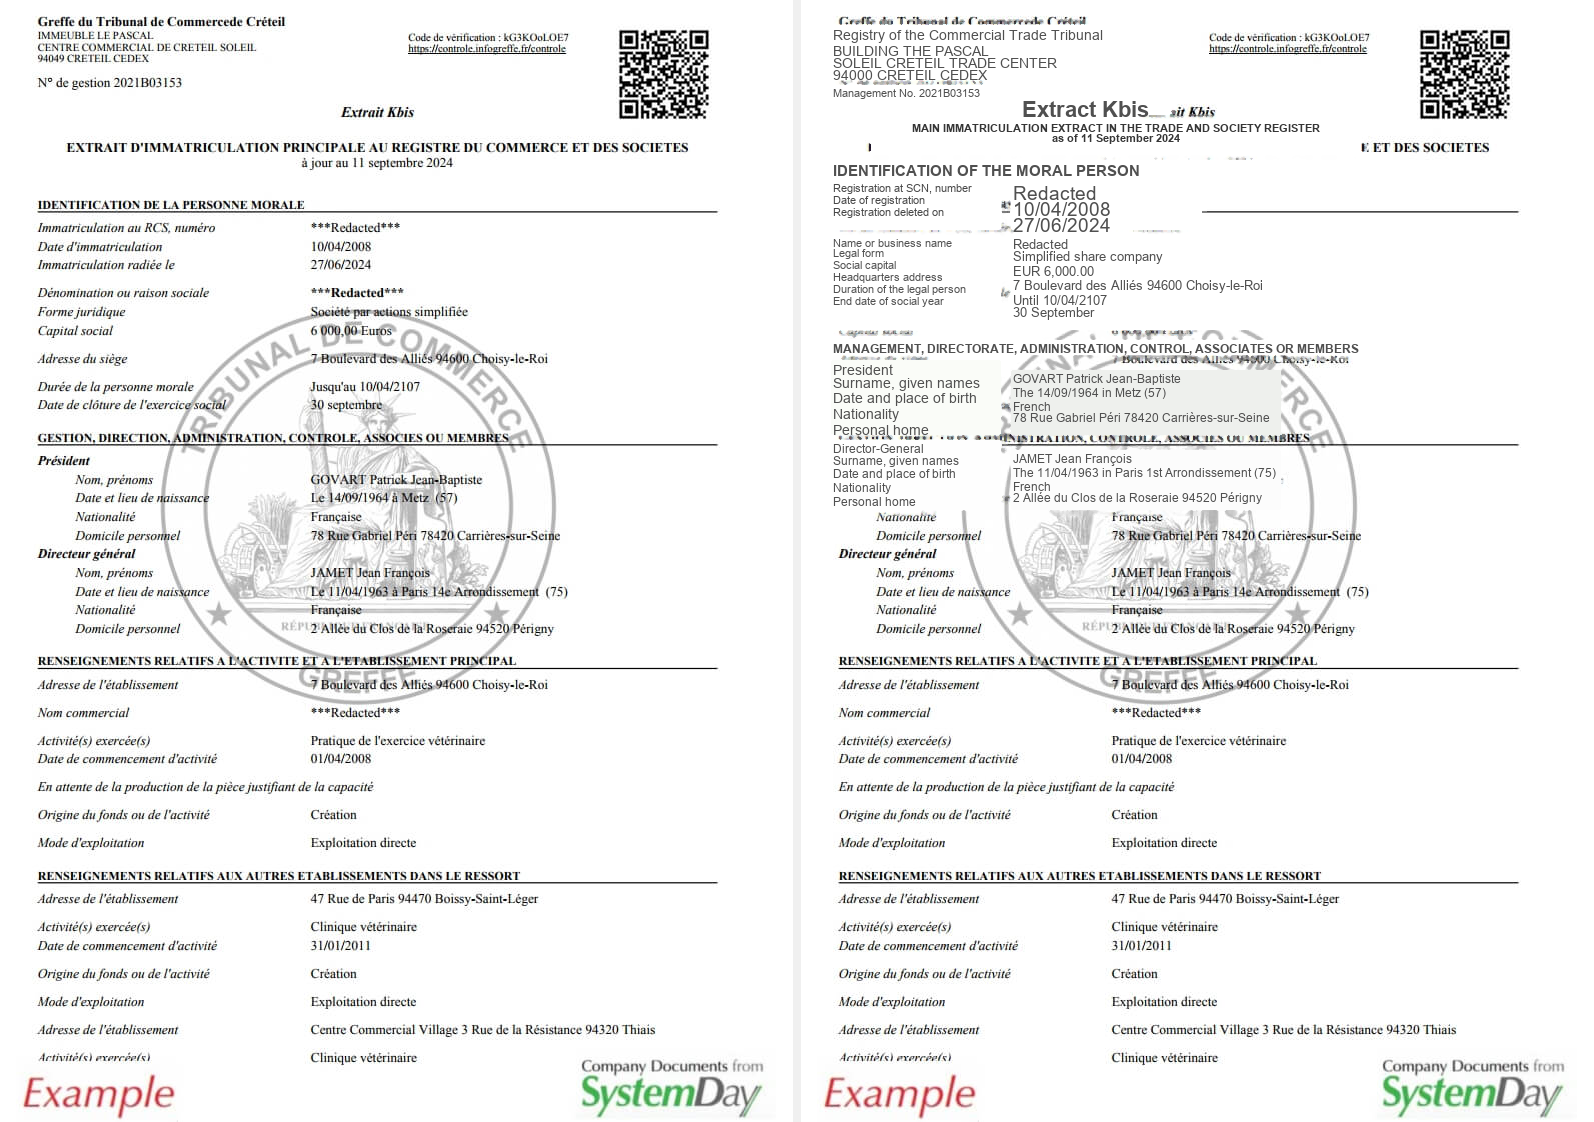
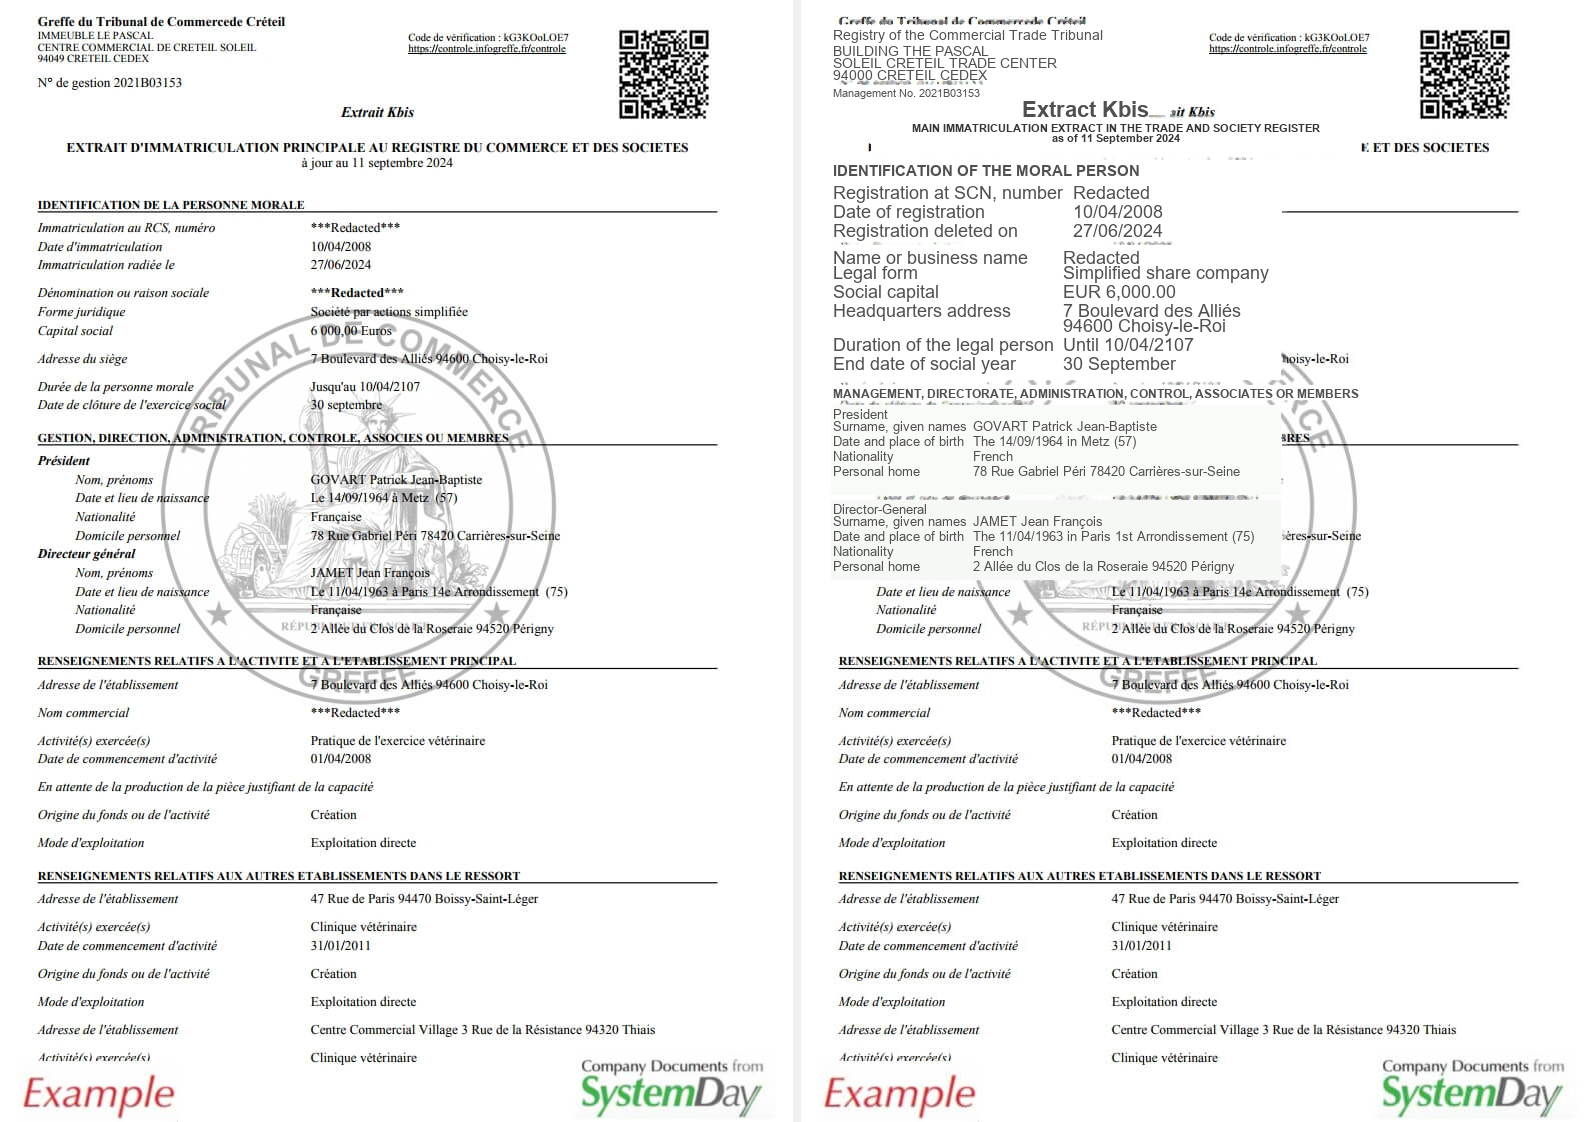
working french translation with examples

Changed region(s): [[0.5226, 0.156, 0.8607, 0.5303]]

diff --git a/pipeline/renderer.py b/pipeline/renderer.py
@@ -232,6 +232,140 @@ def _sample_text_color(
     return (brightness, brightness, brightness)
 
 
+# ── Form layout detection ─────────────────────────────────────────────────────
+
+def _detect_form_pairs(orig_text: str, trans_text: str):
+    """
+    Detect alternating label/value lines that represent a two-column form.
+
+    Returns (orig_pairs, trans_pairs, header_or_None) where each pair is
+    (label, value) and header is (orig_header, trans_header) if the block
+    starts with a standalone header line (odd total count).
+    Returns None if the pattern is not detected.
+    """
+    orig_clean = _strip_markdown(orig_text)
+    trans_clean = _strip_markdown(trans_text)
+
+    orig_lines = [l for l in orig_clean.split("\n") if l.strip()]
+    trans_lines = [l for l in trans_clean.split("\n") if l.strip()]
+
+    if len(orig_lines) != len(trans_lines) or len(orig_lines) < 4:
+        return None
+
+    header = None
+    o_lines, t_lines = orig_lines, trans_lines
+
+    if len(o_lines) % 2 != 0:
+        # Odd count: treat the first line as a standalone header
+        if len(o_lines) >= 5:
+            header = (o_lines[0], t_lines[0])
+            o_lines = o_lines[1:]
+            t_lines = t_lines[1:]
+        else:
+            return None
+
+    orig_pairs = [(o_lines[i], o_lines[i + 1])
+                  for i in range(0, len(o_lines), 2)]
+    trans_pairs = [(t_lines[i], t_lines[i + 1])
+                   for i in range(0, len(t_lines), 2)]
+    return orig_pairs, trans_pairs, header
+
+
+def _find_form_font_size(draw: ImageDraw.ImageDraw,
+                         labels: List[str], values: List[str],
+                         box_w: int, box_h: int, bold: bool = False,
+                         min_size: int = 6, max_size: int = 120) -> int:
+    """
+    Binary-search the largest font size where side-by-side label–value rows
+    fit inside (box_w, box_h).  Values are allowed to word-wrap within their
+    column, and the resulting extra height is accounted for.
+    """
+    lo, hi = min_size, max_size
+    best = min_size
+
+    while lo <= hi:
+        mid = (lo + hi) // 2
+        font = _get_font(mid, bold)
+
+        ref = draw.textbbox((0, 0), "Ay", font=font)
+        line_h = (ref[3] - ref[1]) + 2
+
+        # Label column width: longest label + gap
+        gap = max(int(mid * 0.5), 4)
+        max_lw = 0
+        for lbl in labels:
+            if lbl.strip():
+                lb = draw.textbbox((0, 0), lbl, font=font)
+                max_lw = max(max_lw, lb[2] - lb[0])
+
+        tab_stop = max_lw + gap
+        # Labels must not exceed 60% of box_w
+        if tab_stop > box_w * 0.6:
+            hi = mid - 1
+            continue
+
+        value_space = max(1, box_w - tab_stop)
+
+        # Total height: label is 1 line, value may wrap
+        total_h = 0
+        for val in values:
+            if val.strip():
+                val_lines = _wrap_line(draw, val, font, value_space)
+                total_h += max(1, len(val_lines)) * line_h
+            else:
+                total_h += line_h
+        total_h -= 2  # remove last spacing
+
+        if total_h <= box_h:
+            best = mid
+            lo = mid + 1
+        else:
+            hi = mid - 1
+
+    return best
+
+
+def _render_form(draw: ImageDraw.ImageDraw,
+                 pairs: List[Tuple[str, str]],
+                 x: int, y: int, box_w: int,
+                 font_size: int, bold: bool,
+                 color: Tuple[int, int, int]):
+    """Render form label-value pairs side-by-side with tab-stop alignment."""
+    font = _get_font(font_size, bold)
+    spacing = 2
+
+    # Tab stop: longest label + gap
+    max_label_w = 0
+    for label, _ in pairs:
+        lb = draw.textbbox((0, 0), label, font=font)
+        max_label_w = max(max_label_w, lb[2] - lb[0])
+
+    gap = max(int(font_size * 0.5), 4)
+    tab_stop = min(max_label_w + gap, int(box_w * 0.55))
+    value_space = max(1, box_w - tab_stop)
+
+    y_off = y
+    for label, value in pairs:
+        ref = draw.textbbox((0, 0), label or " ", font=font)
+        line_h = ref[3] - ref[1]
+
+        if label.strip():
+            draw.text((x, y_off), label, font=font, fill=color)
+
+        if value.strip():
+            val_lines = _wrap_line(draw, value, font, value_space)
+            vy = y_off
+            for vl in val_lines:
+                if vl.strip():
+                    draw.text((x + tab_stop, vy), vl, font=font, fill=color)
+                vlb = draw.textbbox((0, 0), vl or " ", font=font)
+                vy += (vlb[3] - vlb[1]) + spacing
+            val_total = vy - y_off
+            y_off += max(line_h + spacing, val_total)
+        else:
+            y_off += line_h + spacing
+
+
 # ── Main rendering ────────────────────────────────────────────────────────────
 
 def render_translations(
@@ -246,6 +380,9 @@ def render_translations(
     Recovers the original font size by binary-searching what fits the original
     text in the box, then renders the translated text at the same size (shrinking
     by at most 30% if the translation is longer).
+
+    For form-like blocks (alternating label/value lines), renders with tab-stop
+    alignment so labels and values appear side-by-side as in the original.
     """
     result = inpainted_image.copy()
     draw = ImageDraw.Draw(result)
@@ -267,16 +404,62 @@ def render_translations(
         box_w = max(1, x2 - x1 - padding * 2)
         box_h = max(1, y2 - y1 - padding * 2)
 
-        # Recover what font size the original text was at
+        color = _sample_text_color(original_image, bbox)
+
+        # ── Form layout: detect alternating label/value pairs ─────────
+        if not center:
+            form = _detect_form_pairs(original_raw, translated_raw)
+            if form:
+                orig_pairs, trans_pairs, header = form
+                orig_labels = [p[0] for p in orig_pairs]
+                orig_values = [p[1] for p in orig_pairs]
+
+                # Include header row in sizing so it gets height budget
+                sz_labels = ([header[0]] + orig_labels) if header else orig_labels
+                sz_values = (["x"] + orig_values) if header else orig_values
+
+                stacked_size = _find_original_font_size(
+                    draw, original_raw, box_w, box_h, bold)
+                form_size = _find_form_font_size(
+                    draw, sz_labels, sz_values, box_w, box_h, bold)
+
+                # Only use form layout if it gives a clearly larger font,
+                # meaning the original must have had side-by-side layout.
+                if form_size >= stacked_size * 1.3:
+                    # Find size for translated pairs (may need to shrink)
+                    trans_labels = [p[0] for p in trans_pairs]
+                    trans_values = [p[1] for p in trans_pairs]
+                    tsz_labels = ([header[1]] + trans_labels) if header else trans_labels
+                    tsz_values = (["x"] + trans_values) if header else trans_values
+                    render_size = _find_form_font_size(
+                        draw, tsz_labels, tsz_values, box_w, box_h, bold)
+                    render_size = max(render_size, int(form_size * 0.7))
+
+                    y_start = y1 + padding
+
+                    # Render header line first (if present)
+                    if header:
+                        hdr_font = _get_font(render_size, bold)
+                        _, trans_hdr = header
+                        if trans_hdr.strip():
+                            draw.text((x1 + padding, y_start),
+                                      trans_hdr, font=hdr_font, fill=color)
+                        ref = draw.textbbox((0, 0), trans_hdr or " ", font=hdr_font)
+                        y_start += (ref[3] - ref[1]) + 2
+
+                    _render_form(draw, trans_pairs,
+                                 x1 + padding, y_start,
+                                 box_w, render_size, bold, color)
+                    continue
+
+        # ── Normal rendering ──────────────────────────────────────────
         orig_size = _find_original_font_size(
             draw, original_raw, box_w, box_h, bold=bold
         )
 
-        # Fit translated text — keep same size, shrink max 30%
         font, used_size, lines = _fit_translated_text(
             draw, translated, box_w, box_h, orig_size, bold=bold
         )
-        color = _sample_text_color(original_image, bbox)
 
         # Draw lines top-aligned
         spacing = 2

diff --git a/test_renderer.py b/test_renderer.py
@@ -43,78 +43,51 @@ MOCK_BLOCKS = [
     },
     {
         "text": "**EXTRAIT D'IMMATRICULATION PRINCIPALE AU REGISTRE DU COMMERCE ET DES SOCIETES**\nà jour au 11 septembre 2024",
-        "translated": "**MAIN IMMATRICULATION EXTRACT IN THE TRADE AND SOCIETY REGISTER**\nas of 11 September 2024",
+        "translated": "MAIN IMMATRICULATION EXTRACT IN THE TRADE AND SOCIETY REGISTER\nas of 11 September 2024",
         "bbox": (70, 120, 560, 155),
         "category": "Title",
         "lang": "fr",
     },
     {
         "text": "**IDENTIFICATION DE LA PERSONNE MORALE**",
-        "translated": "**IDENTIFICATION OF THE MORAL PERSON**",
+        "translated": "IDENTIFICATION OF THE MORAL PERSON",
         "bbox": (30, 160, 560, 175),
         "category": "Section-header",
         "lang": "fr",
     },
+    # ── Form block: labels and values as alternating lines (real OCR pattern) ──
     {
-        "text": "Immatriculation au RCS, numéro\nDate d'immatriculation\nImmatriculation radiée le",
-        "translated": "Registration at SCN, number\nDate of registration\nRegistration deleted on",
-        "bbox": (30, 180, 200, 230),
+        "text": "Immatriculation au RCS, numéro\n***Redacted***\nDate d'immatriculation\n10/04/2008\nImmatriculation radiée le\n27/06/2024",
+        "translated": "Registration at SCN, number\n***Redacted***\nDate of registration\n10/04/2008\nRegistration deleted on\n27/06/2024",
+        "bbox": (30, 180, 480, 240),
         "category": "Text",
         "lang": "fr",
     },
     {
-        "text": "***Redacted***\n10/04/2008\n27/06/2024",
-        "translated": "***Redacted***\n10/04/2008\n27/06/2024",
-        "bbox": (210, 180, 400, 230),
-        "category": "Text",
-        "lang": "fr",
-    },
-    {
-        "text": "Dénomination ou raison sociale\nForme juridique\nCapital social\nAdresse du siège\nDurée de la personne morale\nDate de clôture de l'exercice social",
-        "translated": "Name or business name\nLegal form\nSocial capital\nHeadquarters address\nDuration of the legal person\nEnd date of social year",
-        "bbox": (30, 235, 200, 330),
-        "category": "Text",
-        "lang": "fr",
-    },
-    {
-        "text": "***Redacted***\nSociété par actions simplifiée\n6 000,00 Euros\n7 Boulevard des Alliés 94600 Choisy-le-Roi\nJusqu'au 10/04/2107\n30 septembre",
-        "translated": "***Redacted***\nSimplified share company\nEUR 6,000.00\n7 Boulevard des Alliés 94600 Choisy-le-Roi\nUntil 10/04/2107\n30 September",
-        "bbox": (210, 235, 480, 330),
+        "text": "Dénomination ou raison sociale\n***Redacted***\nForme juridique\nSociété par actions simplifiée\nCapital social\n6 000,00 Euros\nAdresse du siège\n7 Boulevard des Alliés 94600 Choisy-le-Roi\nDurée de la personne morale\nJusqu'au 10/04/2107\nDate de clôture de l'exercice social\n30 septembre",
+        "translated": "Name or business name\n***Redacted***\nLegal form\nSimplified share company\nSocial capital\nEUR 6,000.00\nHeadquarters address\n7 Boulevard des Alliés 94600 Choisy-le-Roi\nDuration of the legal person\nUntil 10/04/2107\nEnd date of social year\n30 September",
+        "bbox": (30, 245, 480, 380),
         "category": "Text",
         "lang": "fr",
     },
     {
         "text": "**GESTION, DIRECTION, ADMINISTRATION, CONTROLE, ASSOCIES OU MEMBRES**",
-        "translated": "**MANAGEMENT, DIRECTORATE, ADMINISTRATION, CONTROL, ASSOCIATES OR MEMBERS**",
-        "bbox": (30, 340, 560, 355),
+        "translated": "MANAGEMENT, DIRECTORATE, ADMINISTRATION, CONTROL, ASSOCIATES OR MEMBERS",
+        "bbox": (30, 385, 560, 400),
         "category": "Section-header",
         "lang": "fr",
     },
     {
-        "text": "*Président*\nNom, prénoms\nDate et lieu de naissance\nNationalité\nDomicile personnel",
-        "translated": "President\nSurname, given names\nDate and place of birth\nNationality\nPersonal home",
-        "bbox": (30, 360, 200, 435),
+        "text": "*Président*\nNom, prénoms\nGOVART Patrick Jean-Baptiste\nDate et lieu de naissance\nLe 14/09/1964 à Metz (57)\nNationalité\nFrançaise\nDomicile personnel\n78 Rue Gabriel Péri 78420 Carrières-sur-Seine",
+        "translated": "President\nSurname, given names\nGOVART Patrick Jean-Baptiste\nDate and place of birth\nThe 14/09/1964 in Metz (57)\nNationality\nFrench\nPersonal home\n78 Rue Gabriel Péri 78420 Carrières-sur-Seine",
+        "bbox": (30, 405, 480, 495),
         "category": "Text",
         "lang": "fr",
     },
     {
-        "text": "GOVART Patrick Jean-Baptiste\nLe 14/09/1964 à Metz (57)\nFrançaise\n78 Rue Gabriel Péri 78420 Carrières-sur-Seine",
-        "translated": "GOVART Patrick Jean-Baptiste\nThe 14/09/1964 in Metz (57)\nFrench\n78 Rue Gabriel Péri 78420 Carrières-sur-Seine",
-        "bbox": (210, 370, 480, 435),
-        "category": "Text",
-        "lang": "fr",
-    },
-    {
-        "text": "*Directeur général*\nNom, prénoms\nDate et lieu de naissance\nNationalité\nDomicile personnel",
-        "translated": "Director-General\nSurname, given names\nDate and place of birth\nNationality\nPersonal home",
-        "bbox": (30, 440, 200, 510),
-        "category": "Text",
-        "lang": "fr",
-    },
-    {
-        "text": "JAMET Jean François\nLe 11/04/1963 à Paris 1st Arrondissement (75)\nFrançaise\n2 Allée du Clos de la Roseraie 94520 Périgny",
-        "translated": "JAMET Jean François\nThe 11/04/1963 in Paris 1st Arrondissement (75)\nFrench\n2 Allée du Clos de la Roseraie 94520 Périgny",
-        "bbox": (210, 450, 480, 510),
+        "text": "*Directeur général*\nNom, prénoms\nJAMET Jean François\nDate et lieu de naissance\nLe 11/04/1963 à Paris 1st Arrondissement (75)\nNationalité\nFrançaise\nDomicile personnel\n2 Allée du Clos de la Roseraie 94520 Périgny",
+        "translated": "Director-General\nSurname, given names\nJAMET Jean François\nDate and place of birth\nThe 11/04/1963 in Paris 1st Arrondissement (75)\nNationality\nFrench\nPersonal home\n2 Allée du Clos de la Roseraie 94520 Périgny",
+        "bbox": (30, 500, 480, 580),
         "category": "Text",
         "lang": "fr",
     },
